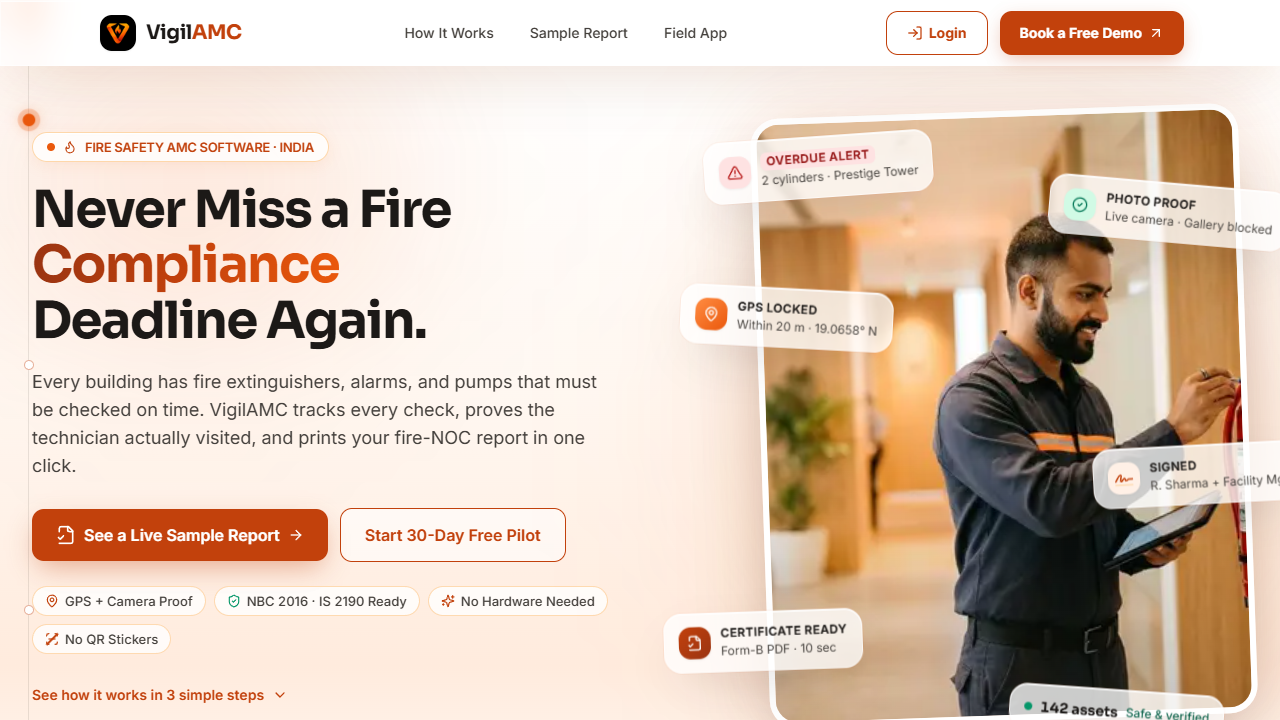
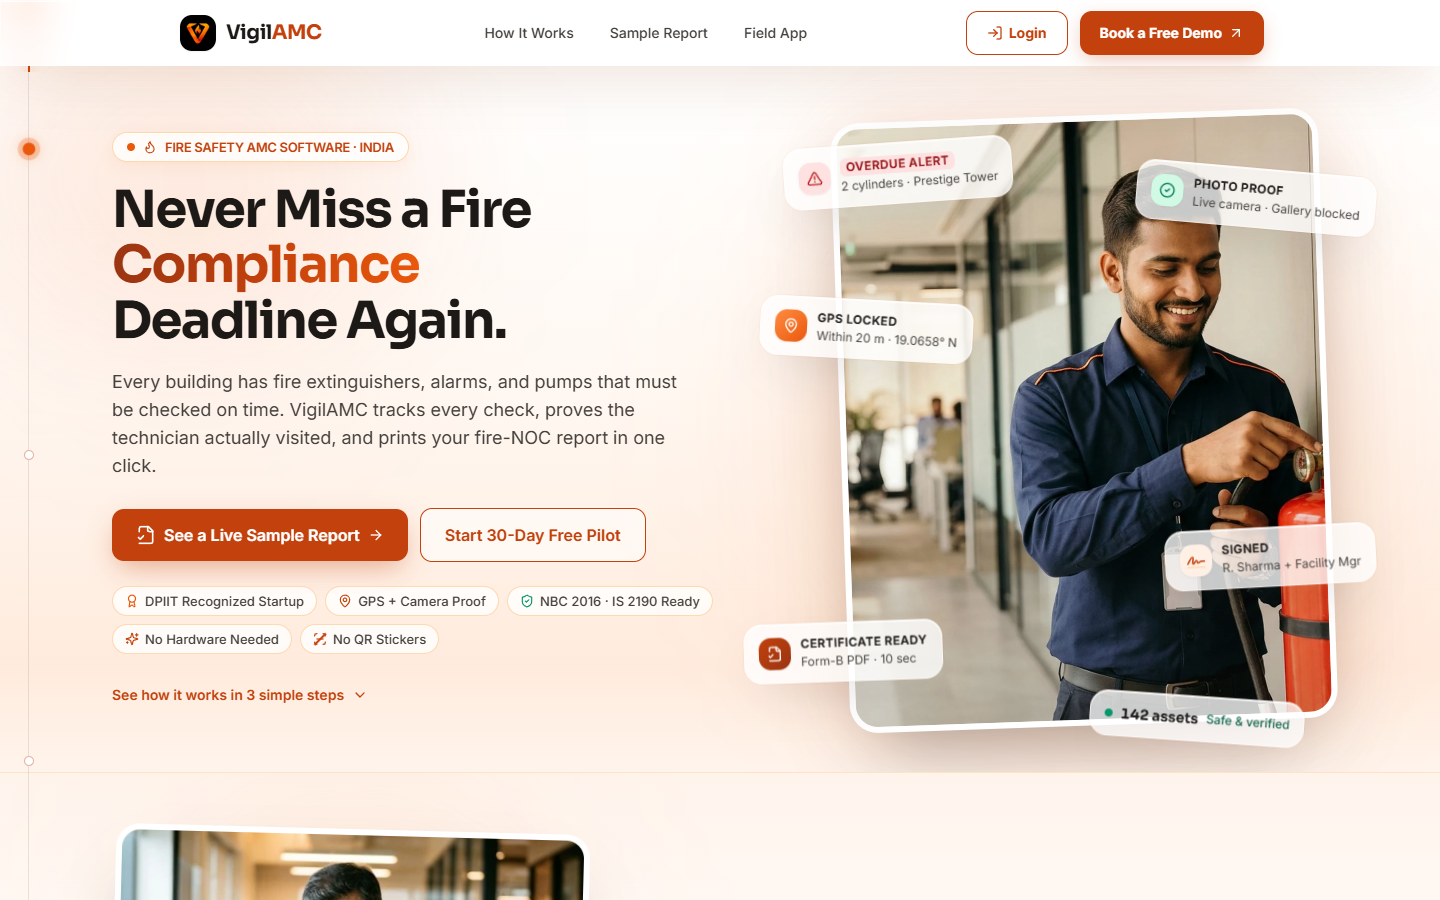
docs: update hero screenshots and sector marquee strip in AGENTS.md

diff --git a/AGENTS.md b/AGENTS.md
@@ -23,10 +23,12 @@ Work Order status: OPEN | ASSIGNED | IN_PROGRESS | COMPLETED | CANCELLED.
 Equipment status: VERIFIED | DUE_SOON | OVERDUE | SERVICE_REQUIRED | REPLACEMENT_REQUIRED.
 
 ## Live Verified Surface Screenshots (Up-to-Date — VIGILAMC FIRE + Lit-Glass + V-Flame Brand Logo)
-- **Homepage Hero (Desktop 1440×900 — Up-to-Date):** `docs/screenshots/hero-desktop-1440x900.png`
+- **Homepage Hero (Desktop 1440×900 — Technician Checking Extinguisher Gauge Action — Up-to-Date):** `docs/screenshots/hero-desktop-1440x900.png`
   ![VigilAMC FIRE Homepage Hero Desktop 1440x900](docs/screenshots/hero-desktop-1440x900.png)
-- **Homepage Hero (Mobile 375×812 — Up-to-Date):** `docs/screenshots/hero-mobile-375x812.png`
+- **Homepage Hero (Mobile 375×812 — Technician Checking Extinguisher Action — Up-to-Date):** `docs/screenshots/hero-mobile-375x812.png`
   ![VigilAMC FIRE Homepage Hero Mobile 375x812](docs/screenshots/hero-mobile-375x812.png)
+- **Sector Marquee Strip (8 Real Photo Tiles — Up-to-Date):** `docs/screenshots/sector-marquee-strip.png`
+  ![VigilAMC Sector Marquee Strip 8 Photo Tiles](docs/screenshots/sector-marquee-strip.png)
 - **Login Agency Card (`/login` 1440×900 — Up-to-Date V-Tile):** `docs/screenshots/login-fire-1440x900.png`
   ![VigilAMC Agency Login Card V-Tile](docs/screenshots/login-fire-1440x900.png)
 - **Admin Dashboard (`/dashboard` — Up-to-Date FIRE + Glass Theme):** `docs/screenshots/dashboard-fire-1440x900.png`
